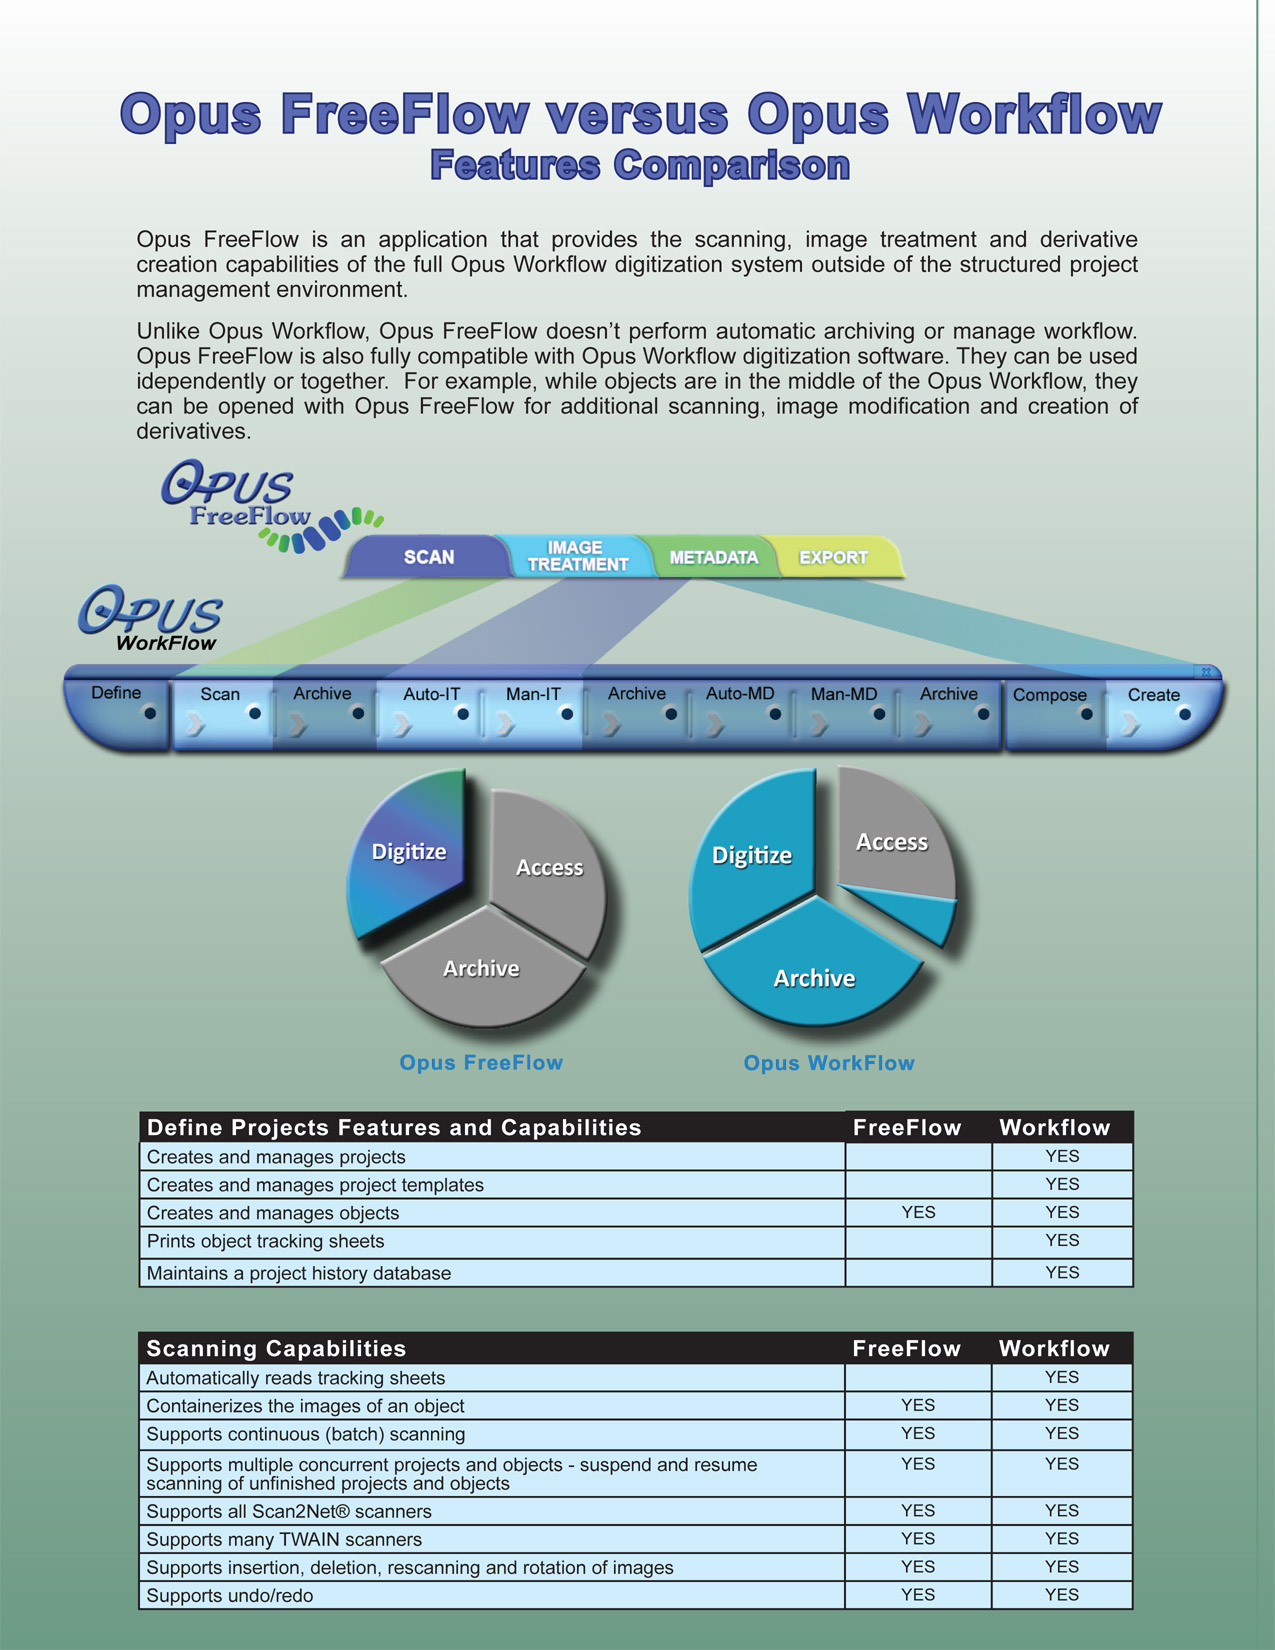
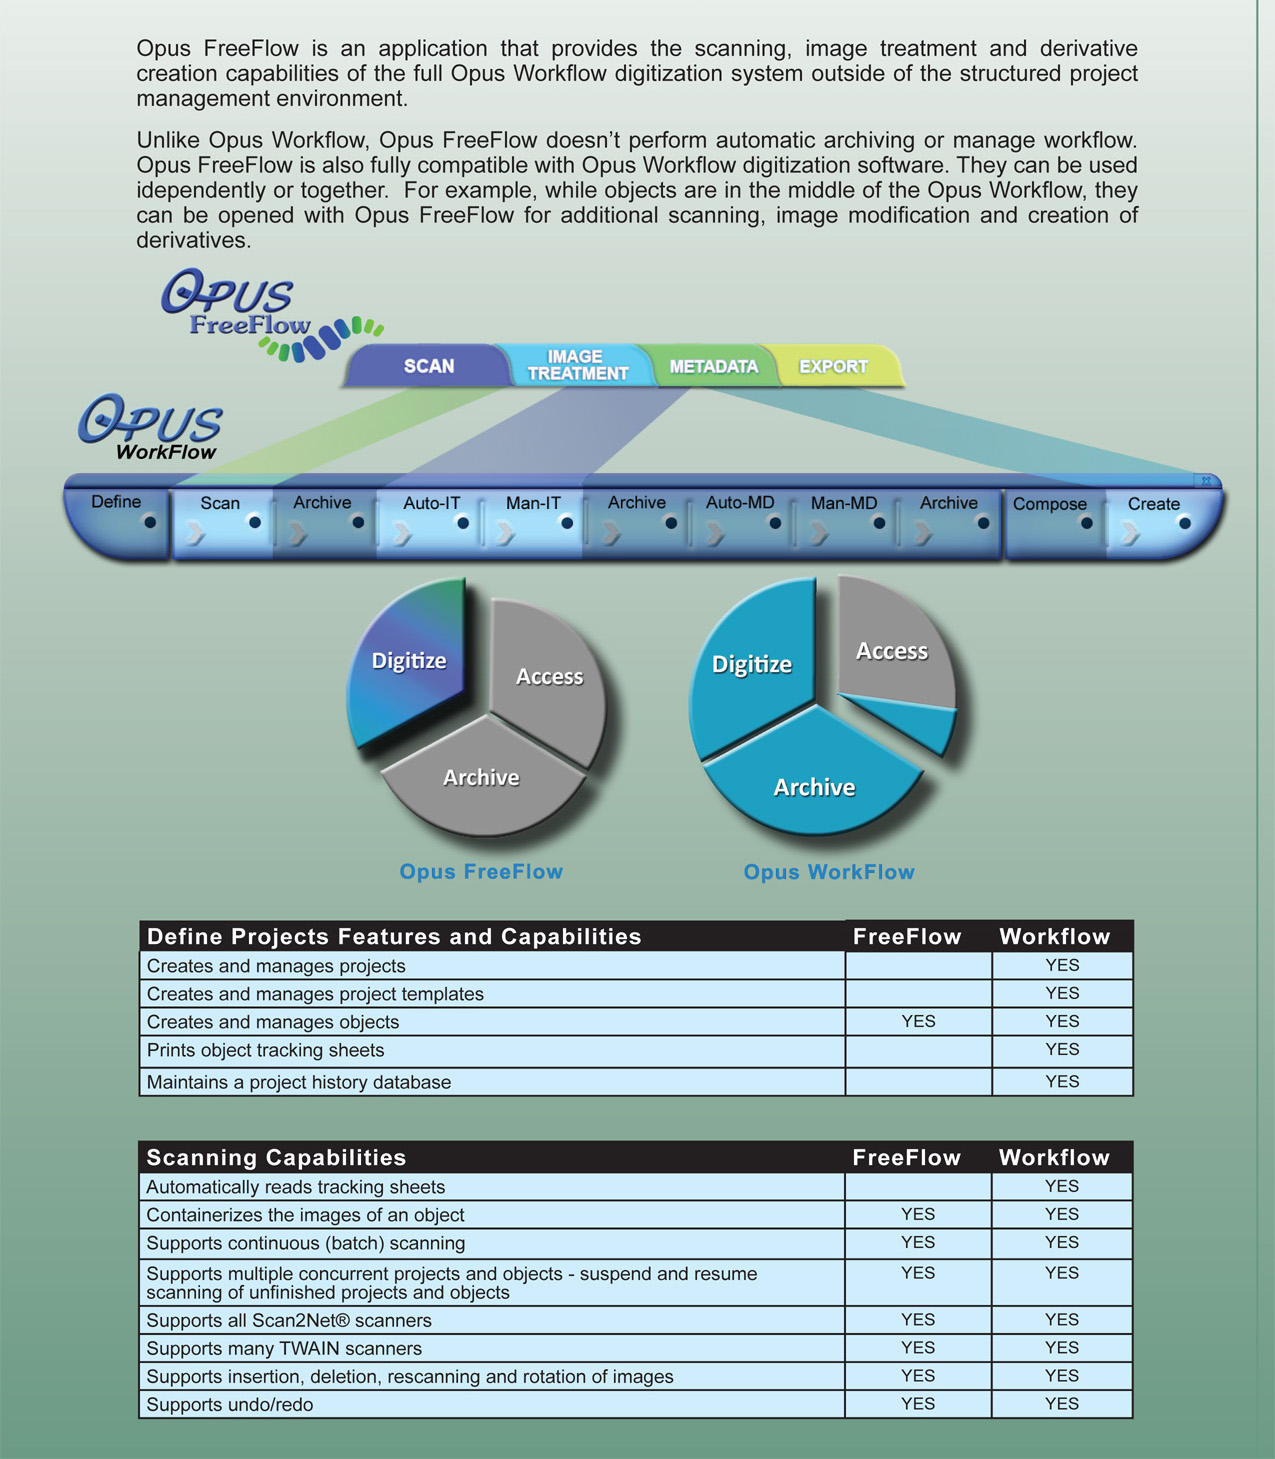
Fixed some issues with Opus WorkFlow

diff --git a/Image Access Site/pages/Opus_FreeFlow_vs_Opus_WorkFlow.html b/Image Access Site/pages/Opus_FreeFlow_vs_Opus_WorkFlow.html
@@ -8,6 +8,23 @@
      <link rel="shortcut icon" type="image/x-icon" href="../images/icon.png">
     <script src="../js/jquery-1.12.2.min.js" type="text/javascript"></script>
     <script src="../js/include.js" type="text/javascript"></script>
+
+    <style>
+        .styleForTitle
+        {
+            text-shadow:0px 0px 1px rgba(0,0,0,1);
+            font-weight:bold;
+            color: rgb(90,107,177);
+            letter-spacing:-1pt;
+            word-spacing:1pt;
+            font-size:43px;
+            text-align:center;
+            font-family:arial black, sans-serif;
+            line-height:1;
+            padding-left: 40px;
+            padding-right: 40px;
+        }
+    </style>
 </head>
 <body class="gradient">
 <header>
@@ -27,6 +44,8 @@
         <li class="selected"><a href="Opus_FreeFlow_vs_Opus_WorkFlow.html">Opus FreeFlow vs Opus Workflow</a></li>
     </ul>
     <div class="infoblock">
+        <h2 class="styleForTitle"> <a href="Opus_FreeFlow.html" >Opus FreeFlow</a> and <a href="Opus_Workflow.html"> Opus WorkFlow</a>
+            Features Comparison</h2>
         <img src="../images/JPGs%20for%20Opus%20Freeflow%20Brochure/JPGs%20for%20Opus%20FreeFlow%20Brochure6.jpg" width="" height="" alt=""/>
         <!--<h1>Opus FreeFlow versus Opus Workflow</h1>-->
         <!--<h3>Features Comparison</h3>-->

diff --git a/Image Access Site/pages/Opus_WorkFlow_Opus_Hierarchical_Metadata_Capture.html b/Image Access Site/pages/Opus_WorkFlow_Opus_Hierarchical_Metadata_Capture.html
@@ -23,8 +23,7 @@
         <li><a href="Opus_WorkFlow_Turnkey_System.html">Turnkey System for Non-Technologists</a></li>
         <li><a href="Opus_WorkFlow_Elements_of_Opus.html">Elements of Opus</a></li>
         <li><a href="Opus_WorkFlow_Opus_Image_Treatment.html">Image Treatment</a></li>
-        <li class="selected"><a href="Opus_WorkFlow_Opus_Hierarchical_Metadata_Capture.html">Hierarchical Metadata</a></li>
-        <li><a href="Opus_WorkFlow_Opus_Collection_Composer.html">Collection Composer</a></li>
+        <li class="selected"><a href="Opus_WorkFlow_Opus_Hierarchical_Metadata_Capture.html">Hierarchical MetaData & Collection Composer</a></li>
         <li><a href="Opus_WorkFlow_Opus_Output_Image_Derivatives_Metadata.html">Output: Image Derivatives & Metadata</a></li>
     </ul>
     <div class="infoblock">

diff --git a/Image Access Site/pages/Opus_WorkFlow_Elements_of_Opus.html b/Image Access Site/pages/Opus_WorkFlow_Elements_of_Opus.html
@@ -23,8 +23,7 @@
         <li><a href="Opus_WorkFlow_Turnkey_System.html">Turnkey System for Non-Technologists</a></li>
         <li class="selected"><a href="Opus_WorkFlow_Elements_of_Opus.html">Elements of Opus</a></li>
         <li><a href="Opus_WorkFlow_Opus_Image_Treatment.html">Image Treatment</a></li>
-        <li><a href="Opus_WorkFlow_Opus_Hierarchical_Metadata_Capture.html">Hierarchical Metadata</a></li>
-        <li><a href="Opus_WorkFlow_Opus_Collection_Composer.html">Collection Composer</a></li>
+        <li><a href="Opus_WorkFlow_Opus_Hierarchical_Metadata_Capture.html">Hierarchical MetaData & Collection Composer</a></li>
         <li><a href="Opus_WorkFlow_Opus_Output_Image_Derivatives_Metadata.html">Output: Image Derivatives & Metadata</a></li>
     </ul>
     <div class="infoblock">

diff --git a/Image Access Site/pages/Opus_WorkFlow_Opus_Image_Treatment.html b/Image Access Site/pages/Opus_WorkFlow_Opus_Image_Treatment.html
@@ -23,8 +23,7 @@
         <li><a href="Opus_WorkFlow_Turnkey_System.html">Turnkey System for Non-Technologists</a></li>
         <li><a href="Opus_WorkFlow_Elements_of_Opus.html">Elements of Opus</a></li>
         <li class="selected"><a href="Opus_WorkFlow_Opus_Image_Treatment.html">Image Treatment</a></li>
-        <li><a href="Opus_WorkFlow_Opus_Hierarchical_Metadata_Capture.html">Hierarchical Metadata</a></li>
-        <li><a href="Opus_WorkFlow_Opus_Collection_Composer.html">Collection Composer</a></li>
+        <li><a href="Opus_WorkFlow_Opus_Hierarchical_Metadata_Capture.html">Hierarchical MetaData & Collection Composer</a></li>
         <li><a href="Opus_WorkFlow_Opus_Output_Image_Derivatives_Metadata.html">Output: Image Derivatives & Metadata</a></li>
     </ul>
     <div class="infoblock">

diff --git a/Image Access Site/pages/Opus_WorkFlow_Opus_Output_Image_Derivatives_Metadata.html b/Image Access Site/pages/Opus_WorkFlow_Opus_Output_Image_Derivatives_Metadata.html
@@ -23,8 +23,7 @@
         <li><a href="Opus_WorkFlow_Turnkey_System.html">Turnkey System for Non-Technologists</a></li>
         <li><a href="Opus_WorkFlow_Elements_of_Opus.html">Elements of Opus</a></li>
         <li><a href="Opus_WorkFlow_Opus_Image_Treatment.html">Image Treatment</a></li>
-        <li><a href="Opus_WorkFlow_Opus_Hierarchical_Metadata_Capture.html">Hierarchical Metadata</a></li>
-        <li><a href="Opus_WorkFlow_Opus_Collection_Composer.html">Collection Composer</a></li>
+        <li><a href="Opus_WorkFlow_Opus_Hierarchical_Metadata_Capture.html">Hierarchical MetaData & Collection Composer</a></li>
         <li class="selected"><a href="Opus_WorkFlow_Opus_Output_Image_Derivatives_Metadata.html">Output: Image Derivatives & Metadata</a></li>
     </ul>
     <div class="infoblock">

diff --git a/Image Access Site/pages/Opus_WorkFlow_Turnkey_System.html b/Image Access Site/pages/Opus_WorkFlow_Turnkey_System.html
@@ -23,8 +23,7 @@
         <li class="selected"><a href="Opus_WorkFlow_Turnkey_System.html">Turnkey System for Non-Technologists</a></li>
         <li><a href="Opus_WorkFlow_Elements_of_Opus.html">Elements of Opus</a></li>
         <li><a href="Opus_WorkFlow_Opus_Image_Treatment.html">Image Treatment</a></li>
-        <li><a href="Opus_WorkFlow_Opus_Hierarchical_Metadata_Capture.html">Hierarchical Metadata</a></li>
-        <li><a href="Opus_WorkFlow_Opus_Collection_Composer.html">Collection Composer</a></li>
+        <li><a href="Opus_WorkFlow_Opus_Hierarchical_Metadata_Capture.html">Hierarchical MetaData & Collection Composer</a></li>
         <li><a href="Opus_WorkFlow_Opus_Output_Image_Derivatives_Metadata.html">Output: Image Derivatives & Metadata</a></li>
     </ul>
     <div class="infoblock">

diff --git a/Image Access Site/pages/Opus_WorkFlow_Highlights.html b/Image Access Site/pages/Opus_WorkFlow_Highlights.html
@@ -24,8 +24,7 @@
         <li><a href="Opus_WorkFlow_Elements_of_Opus.html">Elements of Opus</a></li>
         <li class="selected"><a href="Opus_WorkFlow_Highlights.html">Highlights</a></li>
         <li><a href="Opus_WorkFlow_Opus_Image_Treatment.html">Opus Image Treatment</a></li>
-        <li><a href="Opus_WorkFlow_Opus_Hierarchical_Metadata_Capture.html">Opus Hierarchical Metadata Capture</a></li>
-        <li><a href="Opus_WorkFlow_Opus_Collection_Composer.html">Opus Collection Composer</a></li>
+        <li><a href="Opus_WorkFlow_Opus_Hierarchical_Metadata_Capture.html">Hierarchical MetaData & Collection Composer</a></li>
         <li><a href="Opus_WorkFlow_Opus_Output_Image_Derivatives_Metadata.html">Opus Output: Image Derivatives &amp
             Metadata</a></li>
     </ul>

diff --git a/Image Access Site/pages/Opus_WorkFlow_A_new_Era_in_Digitization.html b/Image Access Site/pages/Opus_WorkFlow_A_new_Era_in_Digitization.html
@@ -24,8 +24,7 @@
         <li><a href="Opus_WorkFlow_Elements_of_Opus.html">Elements of Opus</a></li>
         <li><a href="Opus_WorkFlow_Highlights.html">Highlights</a></li>
         <li><a href="Opus_WorkFlow_Opus_Image_Treatment.html">Opus Image Treatment</a></li>
-        <li><a href="Opus_WorkFlow_Opus_Hierarchical_Metadata_Capture.html">Opus Hierarchical Metadata Capture</a></li>
-        <li><a href="Opus_WorkFlow_Opus_Collection_Composer.html">Opus Collection Composer</a></li>
+        <li><a href="Opus_WorkFlow_Opus_Hierarchical_Metadata_Capture.html">Hierarchical MetaData & Collection Composer</a></li>
         <li><a href="Opus_WorkFlow_Opus_Output_Image_Derivatives_Metadata.html">Opus Output: Image Derivatives &amp
             Metadata</a></li>
     </ul>
